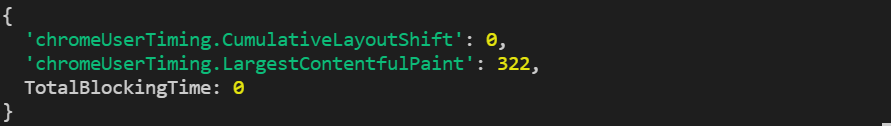
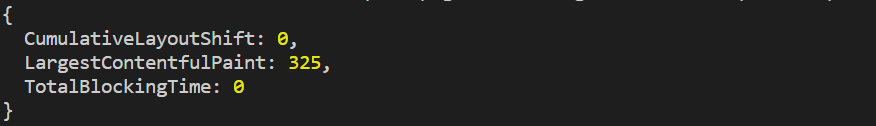
Recipe update with better code

diff --git a/webvitals.js b/webvitals.js
@@ -2,13 +2,6 @@ const WebPageTest = require("webpagetest");
 
 const wpt = new WebPageTest("https://www.webpagetest.org", "YOUR_API_KEY");
 
-// CoreWebVitals
-keys = [
-  "chromeUserTiming.CumulativeLayoutShift",
-  "chromeUserTiming.LargestContentfulPaint",
-  "TotalBlockingTime",
-];
-
 let testURL = "https://docs.webpagetest.org/"; //Your URL here
 
 let options = {
@@ -20,14 +13,11 @@ let options = {
 
 wpt.runTest(testURL, options, (err, result) => {
   if (result) {
-    const data = keys.reduce(
-      (key, value) => ({
-        ...key,
-        [value]: result.data.average.firstView[value],
-      }),
-      {}
-    );
-    console.log(data);
+    console.log({
+      CumulativeLayoutShift: result.data.average.firstView["chromeUserTiming.CumulativeLayoutShift"],
+      LargestContentfulPaint: result.data.average.firstView["chromeUserTiming.LargestContentfulPaint"],
+      TotalBlockingTime: result.data.average.firstView["TotalBlockingTime"],
+    });
   } else {
     console.log(err);
   }

diff --git a/README.md b/README.md
@@ -84,13 +84,6 @@ const WebPageTest = require("webpagetest");
 
 const wpt = new WebPageTest("https://www.webpagetest.org", "YOUR_API_KEY");
 
-// CoreWebVitals
-keys = [
-  "chromeUserTiming.CumulativeLayoutShift",
-  "chromeUserTiming.LargestContentfulPaint",
-  "TotalBlockingTime",
-];
-
 let testURL = "https://docs.webpagetest.org/"; //Your URL here
 
 let options = {
@@ -102,18 +95,16 @@ let options = {
 
 wpt.runTest(testURL, options, (err, result) => {
   if (result) {
-    const data = keys.reduce(
-      (key, value) => ({
-        ...key,
-        [value]: result.data.average.firstView[value],
-      }),
-      {}
-    );
-    console.log(data);
+    console.log({
+      CumulativeLayoutShift: result.data.average.firstView["chromeUserTiming.CumulativeLayoutShift"],
+      LargestContentfulPaint: result.data.average.firstView["chromeUserTiming.LargestContentfulPaint"],
+      TotalBlockingTime: result.data.average.firstView["TotalBlockingTime"],
+    });
   } else {
     console.log(err);
   }
 });
+
 
 ```
 ![Webvitals](/assets/images/webvitals.png "Get your webvitals using webpagetest WPT")
